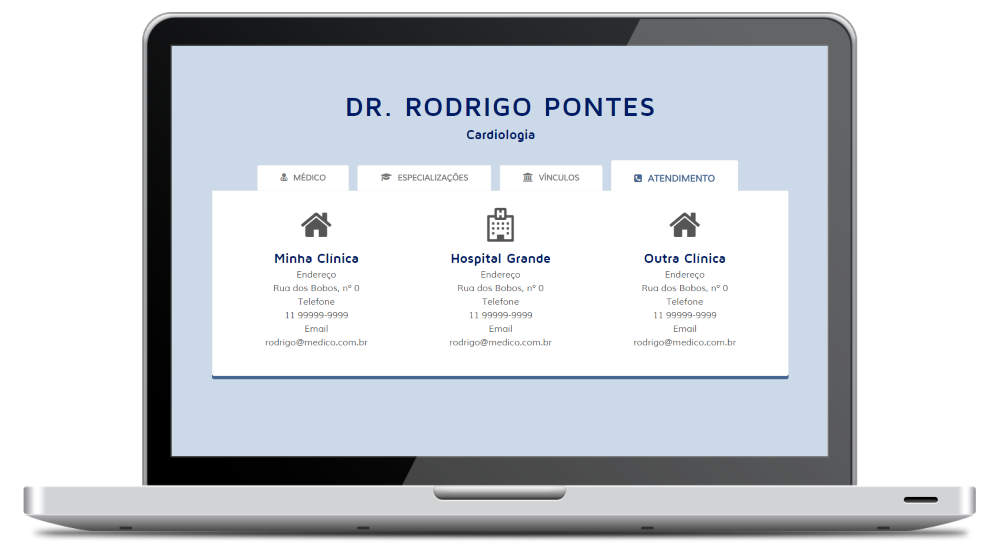
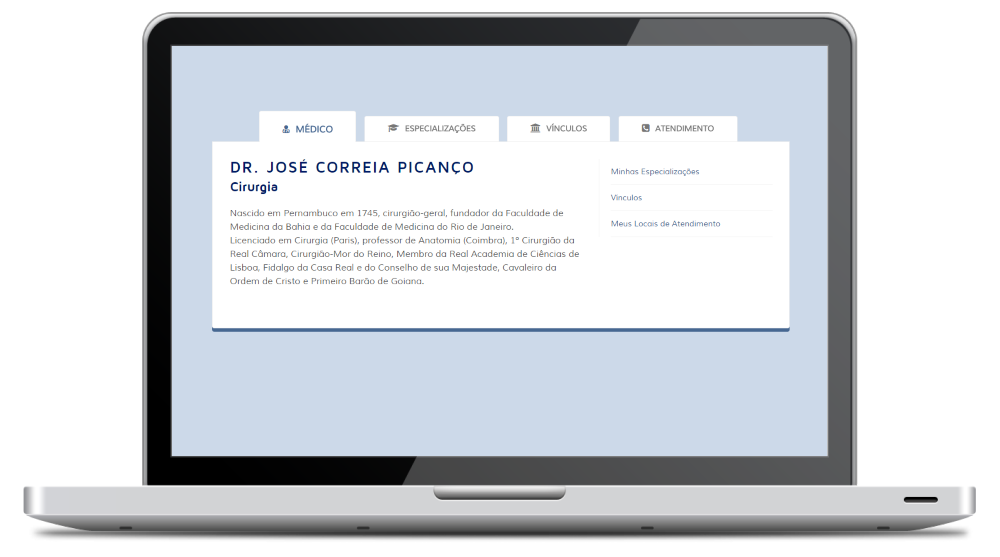
picanco

Changed region(s): [[0.186, 0.1526, 0.806, 0.702], [0.62, 0.3662, 0.713, 0.4273]]

diff --git a/drjosecorreiapicanco.html b/drjosecorreiapicanco.html
@@ -7,7 +7,7 @@
 
   <meta charset="utf-8">
   <meta http-equiv="X-UA-Compatible" content="IE=edge,chrome=1">
-  <title>Dr. Rodrigo Pontes - Cardiologia</title>
+  <title>Dr. José Correia Picanço - Cirurgião Geral</title>
   <meta name="description" content="">
   <meta name="viewport" content="width=device-width">
   <link rel="apple-touch-icon" sizes="57x57" href="icons/apple-icon-57x57.png">
@@ -65,10 +65,10 @@
         <header id="header">
             <div id="logo">
                 <h2>
-                    Dr. Rodrigo Pontes
+                    Dr. José Correia Picanço
                 </h2>
                 <h4>
-                    Cardiologia
+                    Cirurgia
                 </h4>
             </div>
         </header>
@@ -99,14 +99,14 @@
 
                             <div class="info">
                                 <h2>
-                                    Dr. Rodrigo Pontes
+                                    Dr. José Correia Picanço
                                 </h2>
                                 <h4>
-                                    Cardiologia
+                                    Cirurgia
                                 </h4>
                                 <p>
-                                    Formado na Faculdade de Medicina da USP em 1998,
-                                </p>
+                                    Nascido em Pernambuco em 1745, cirurgião-geral, fundador da Faculdade de Medicina da Bahia e da Faculdade de Medicina do Rio de Janeiro.<br>Licenciado em Cirurgia (Paris), professor de Anatomia (Coimbra), 1º Cirurgião da Real Câmara, Cirurgião-Mor do Reino, Membro da Real Academia de Ciências de Lisboa, Fidalgo da Casa Real e do Conselho de sua Majestade, Cavaleiro da Ordem de Cristo e Primeiro Barão de Goiana.
+								</p>
                             </div>
                         </div>
                         <div class="g1">
@@ -151,58 +151,38 @@
                             <ul class="no-list work">
                                 <li>
                                     <h5>
-                                        Freelance Web Designer
-                                    </h5><span class="label label-info">2009-2010</span>
+                                        Doutor em Medicina
+                                    </h5><span class="label label-info">1772</span>
                                     <p>
-                                        Lorem ipsum dolor sit amet, consectetur adipiscing elit. Aliquam sodales urna non odio egestas tempor. Nunc vel vehicula ante.
+                                        Formação pela Universidade de Montpellier.
                                     </p>
                                 </li>
                                 <li>
                                     <h5>
-                                        Python Programmer
-                                    </h5><span class="label label-info">2010-2011</span>
+                                        Officier de Santè
+                                    </h5><span class="label label-info">1768</span>
                                     <p>
-                                        Lorem ipsum dolor sit amet, consectetur adipiscing elit. Aliquam sodales urna non odio egestas tempor. Nunc vel vehicula ante.
+                                        Formação pela Universidade de Paris.
                                     </p>
                                 </li>
                                 <li>
                                     <h5>
-                                        Social Media Lunatic
-                                    </h5><span class="label label-info">2011-2012</span>
+                                        Licenciado em Cirurgia
+                                    </h5><span class="label label-info">1767</span>
                                     <p>
-                                        Lorem ipsum dolor sit amet, consectetur adipiscing elit. Aliquam sodales urna non odio egestas tempor. Nunc vel vehicula ante.
+                                        Formação pela Escola Cirúrgica do Hospital São José, Lisboa.
                                     </p>
                                 </li>
                                 <li>
                                     <h5>
-                                        Being Awesome
-                                    </h5><span class="label label-danger">2012-Till Death</span>
+                                        Cirurgião-barbeiro
+                                    </h5><span class="label label-danger">1760-1766</span>
                                     <p>
-                                        Lorem ipsum dolor sit amet, consectetur adipiscing elit. Aliquam sodales urna non odio egestas tempor. Nunc vel vehicula ante.
+                                        Educação domiciliar com seu pai, o também Cirurgião-barbeiro Francisco Correia Picanço.
                                     </p>
                                 </li>
                             </ul>
-                            <h3>
-                                Education
-                            </h3>
-                            <ul class="no-list work">
-                                <li>
-                                    <h5>
-                                        NoUse School
-                                    </h5><span class="label label-success">2001-2002</span>
-                                    <p>
-                                        Lorem ipsum dolor sit amet, consectetur adipiscing elit. Aliquam sodales urna non odio egestas tempor. Nunc vel vehicula ante.
-                                    </p>
-                                </li>
-                                <li>
-                                    <h5>
-                                        Super Useless College
-                                    </h5><span class="label label-warning">2002-2008</span>
-                                    <p>
-                                        Lorem ipsum dolor sit amet, consectetur adipiscing elit. Aliquam sodales urna non odio egestas tempor. Nunc vel vehicula ante.
-                                    </p>
-                                </li>
-                            </ul>
+                            
                         </div>
                         
                     </section>
@@ -216,22 +196,51 @@
                                 Vínculos
                             </h3>
                             <ul class="no-list work">
-                                <li>
-                                    <h5>
-                                        Freelance Web Designer
-                                    </h5><span class="label label-info">2009-2010</span>
+								<li>
+                                    <span class="label label-info">1808</span>
                                     <p>
-                                        Lorem ipsum dolor sit amet, consectetur adipiscing elit. Aliquam sodales urna non odio egestas tempor. Nunc vel vehicula ante.
+                                        Fundador da Escola Cirúrgica do Rio de Janeiro
+                                    </p>
+                                </li>
+								<li>
+                                    <span class="label label-info">1808</span>
+                                    <p>
+                                        Fundador da Escola Cirúrgica da Bahia
+                                    </p>
+                                </li>
+								<li>
+                                    <span class="label label-info">1808-1816</span>
+                                    <p>
+                                         Cirurgião Mor do Reino e Estados do Brasil
+                                    </p>
+                                </li>
+								<li>
+                                    <span class="label label-info">1782-1808</span>
+                                    <p>
+                                         Deputado e membro da  Real Junta do Protomedicato de Portugal
+                                    </p>
+                                </li>
+								<li>
+                                    <span class="label label-info">1779-1782</span>
+                                    <p>
+                                         Cirurgião-mor do Reino e Primeiro Cirurgião da Real Câmara
+                                    </p>
+                                </li>
+								
+								 
+								<li>
+                                    <span class="label label-info">1771-1789</span>
+                                    <p>
+                                        Professor da Cadeira de Anatomia Prática e Cirurgia da Universidade de Coimbra
                                     </p>
                                 </li>
                                 <li>
-                                    <h5>
-                                        Python Programmer
-                                    </h5><span class="label label-info">2010-2011</span>
+                                    <span class="label label-info">1766</span>
                                     <p>
-                                        Lorem ipsum dolor sit amet, consectetur adipiscing elit. Aliquam sodales urna non odio egestas tempor. Nunc vel vehicula ante.
+                                        Cirurgião do Corpo Avulso de Oficiais de Ordenança das Estradas e Reformados
                                     </p>
                                 </li>
+
                                 
                             </ul>
                          
@@ -250,13 +259,12 @@
                               <i class="fa fa-home"></i>
                             </div>
                             <div class="sny-icon-content">
-                              <h4>Minha Clínica</h4>
+                              <h4>Clínica Particular</h4>
 							  <p>Endereço</p>
-                              <p>Rua dos Bobos, nº 0</p>
+                              <p>Rua Bruno Lobo, 50</p>
 							  <p>Telefone</p>
-                              <p>11 99999-9999</p>
-							  <p>Email</p>
-							  <p>rodrigo@medico.com.br</p>
+                              <p>(21) 2590-4891</p>
+							  
                             </div>
                          </div>
                        </div>
@@ -266,32 +274,16 @@
                               <i class="fa fa-hospital-o"></i>
                             </div>
                             <div class="sny-icon-content">
-                              <h4>Hospital Grande</h4>
+                              <h4>Hospital da Faculdade de Medicina do Rio de Janeiro</h4>
 							  <p>Endereço</p>
-                              <p>Rua dos Bobos, nº 0</p>
+                              <p>Rua Bruno Lobo, 50</p>
 							  <p>Telefone</p>
-                              <p>11 99999-9999</p>
-							  <p>Email</p>
-							  <p>rodrigo@medico.com.br</p>
+                              <p>(21) 2590-4891</p>
+							  
                             </div>
                          </div>
                        </div>
-                       <div class="g1">
-                         <div class="sny-icon-box">
-                           <div class="sny-icon">
-                              <i class="fa fa-home"></i>
-                            </div>
-                            <div class="sny-icon-content">
-                              <h4>Outra Clínica</h4>
-							  <p>Endereço</p>
-                              <p>Rua dos Bobos, nº 0</p>
-							  <p>Telefone</p>
-                              <p>11 99999-9999</p>
-							  <p>Email</p>
-							  <p>rodrigo@medico.com.br</p>
-                            </div>
-                         </div>
-                       </div>
+                       
                        <div class="break"></div>
                        
                     </section>

diff --git a/index.html b/index.html
@@ -64,8 +64,9 @@
 							<h1 class="text-upper">O seu site pronto em um dia</h1>
 							<h3>Perfil.med.br é a solução mais <strong>rápida e barata</strong><br>de site para médicos.</h3>
 							<p style="color: #FFF;">Preencha seus dados e em 1 dia seu site estará publicado na internet</p>
-							<a href="#cadastro"><button class="btn btn-primary text-uppercase"><i class="fa fa-arrow-down"></i> Crie seu site</button></a>
-							<img src="images/software-img.png" class="img-responsive" alt="home img">
+							<a href="#cadastro"><button class="btn btn-success text-uppercase"><i class="fa fa-arrow-down"></i> Crie seu site</button></a>
+							<a href="./drjosecorreiapicanco.html" target="_blank" ><img src="images/software-img.png" class="img-responsive" alt="home img"></a>
+							<a href="./drjosecorreiapicanco.html" target="_blank" class="btn btn-info">Clique e veja um exemplo</a>	
 						</div>
 						<div class="col-md-1"></div>
 					</div>
@@ -111,7 +112,7 @@
 					</div>
 					<div class="col-md-4 wow fadeInRight text-center" data-wow-delay="0.6s">
 						<h2 class="text-primary title" style="margin-top: 20%">O Perfil.med.br sai por apenas<br>R$ 199,00 por ano!</h2>
-						<a href="#cadastro"><button class="btn btn-primary text-uppercase"><i class="fa fa-arrow-down"></i>Crie seu site agora</button></a>
+						<a href="#cadastro"><button class="btn btn-success text-uppercase"><i class="fa fa-arrow-down"></i> Crie seu site agora</button></a>
 					</div>
 				</div>
 			</div>

diff --git a/css/main.css b/css/main.css
@@ -125,6 +125,7 @@ body {width: 92%; margin: 0 auto} /* Center page without wrapper */
 }
 
 
+
 /* Utility */
 .chromeframe {
   margin: 0.2em 0;
@@ -268,11 +269,20 @@ body {width: 92%; margin: 0 auto} /* Center page without wrapper */
 .info{
 
 }
-.info h2, #header h2{
+.info h2{
   text-transform: uppercase;
   letter-spacing: 2px;
   margin-bottom: .3em;
+  font-size: 1.75em;
 }
+
+#header h2{
+  text-transform: uppercase;
+  letter-spacing: 2px;
+  margin-bottom: .3em;
+  font-size: 3em;
+}
+
 .info h4, #header h4{
   color: #001b66;
 }

diff --git a/css/templatemo-style.css b/css/templatemo-style.css
@@ -13,6 +13,7 @@ body
 	
 
 
+
 /* start h1 group */
 h1 { 
     margin-top: 0;
@@ -233,18 +234,7 @@ img
     {
         float: left;
     }
-#feature .fa
-    {
-        background: #28a7e9;
-        border-radius: 50%;
-        color: #fff;
-        display: inline-block;
-        width: 40px;
-        height: 40px;
-        line-height: 40px;
-        text-align: center;
-        margin-right: 20px;
-    }
+
 /* end feature */
 
 /* start feature1 */
